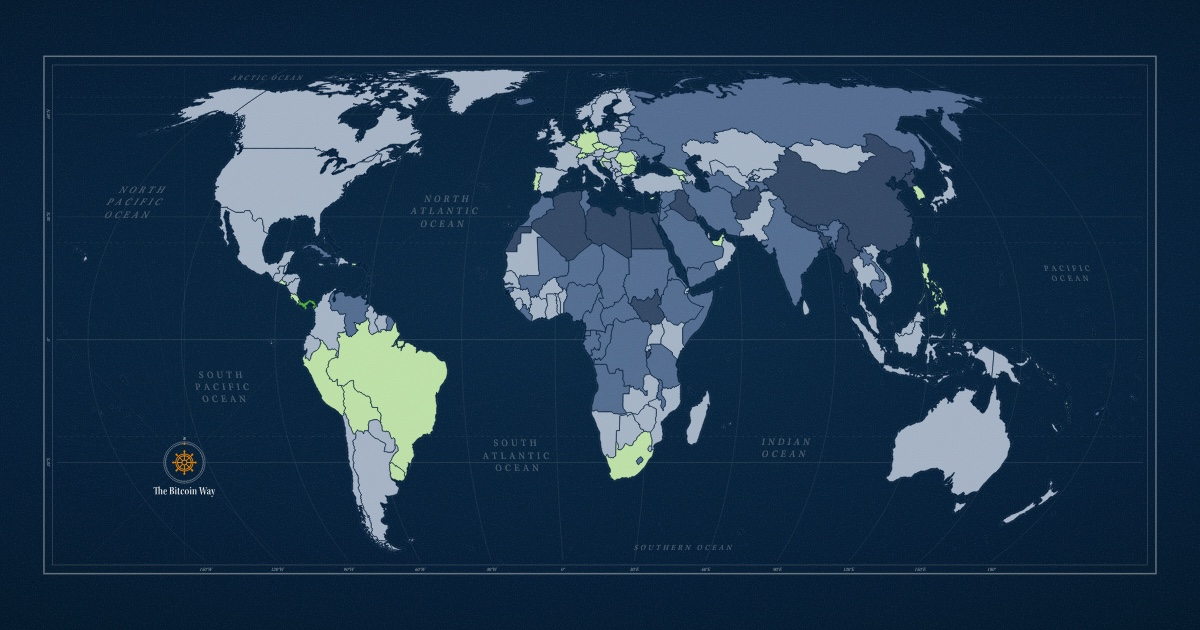
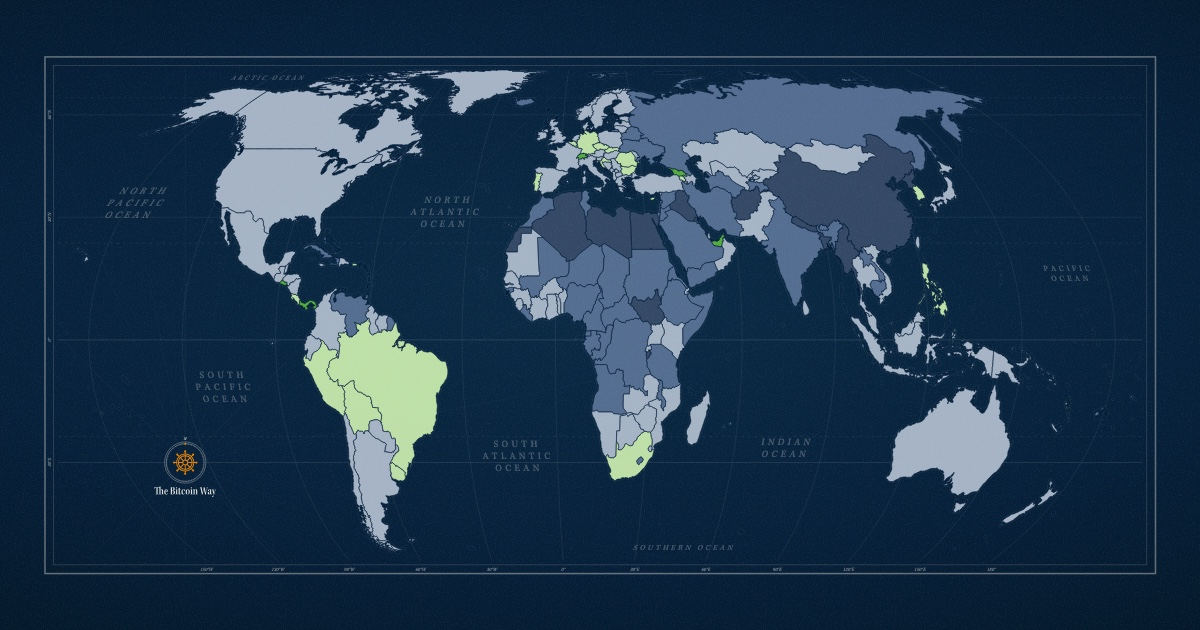
Very Friendly starts at 4.5 instead of 5 (adds El Salvador, Georgia, UAE, Switzerland); explanation, README and share image updated

diff --git a/data/countriesCsv.ts b/data/countriesCsv.ts
@@ -31,7 +31,7 @@ export const AREAS: Array<{ key: string; label: string }> = [
 export interface CountryData {
   code: string;
   name: string;
-  /** Colour band: the whole-number part of the overall score (below 1 counts as band 1) */
+  /** Colour band: the whole-number part of the overall score (below 1 counts as band 1), and 5 from 4.5 up */
   score: BitcoinScore;
   /** Overall score from the CSV (e.g. 3.42); null when the CSV value is missing or not numeric */
   scoreExact: number | null;
@@ -91,6 +91,9 @@ function optionalText(raw: string | null | undefined): string | null {
   const trimmed = (raw ?? "").trim();
   return trimmed === "" || trimmed === "—" ? null : trimmed;
 }
+
+/** Lowest overall score in band 5, Very Friendly (the other bands start at whole numbers) */
+export const VERY_FRIENDLY_FROM = 4.5;
 
 function clampBand(n: number): BitcoinScore {
   if (n <= 1) return 1;
@@ -176,8 +179,9 @@ async function initializeCountries(): Promise<void> {
         const scoreExact = parseDecimal(cols[iScore]);
         const capital = optionalText(cols[iCapital]);
 
-        // Colour band is the whole-number part of the score: 1.8 is band 1, and only a clean 5 is band 5
-        const band = clampBand(scoreExact !== null ? Math.floor(scoreExact) : 3);
+        // Colour band is the whole-number part of the score (1.8 is band 1), except that Very
+        // Friendly starts at 4.5
+        const band = clampBand(scoreExact !== null ? (scoreExact >= VERY_FRIENDLY_FROM ? 5 : Math.floor(scoreExact)) : 3);
 
         out[code] = {
           code,

diff --git a/app/map/InfoPanel.tsx b/app/map/InfoPanel.tsx
@@ -191,7 +191,7 @@ export const InfoPanel: React.FC<InfoPanelProps> = ({ onClose, closing }) => {
           The averages are then scaled so that the best country{best ? ` (${best.name})` : ""} scores 5.0, and every other
           country is shown relative to it.
         </p>
-        <p className="mb-2 text-zinc-700 dark:text-zinc-300">The colour on the map is the whole-number part of the overall score:</p>
+        <p className="mb-2 text-zinc-700 dark:text-zinc-300">The colour on the map is the whole-number part of the overall score, except that Very Friendly starts at 4.5:</p>
         <ul className="mb-3 space-y-2">
           {legendEntries.map((entry) => (
             <li key={entry.score} className="flex items-start gap-3">

diff --git a/scripts/make-og-image.py b/scripts/make-og-image.py
@@ -31,11 +31,11 @@ scores = re.findall(r'"(#[0-9A-Fa-f]{6})"', palette[palette.index("SCORE_COLORS"
 no_data = re.search(r'NO_DATA_COLOR = "(#[0-9A-Fa-f]{6})"', palette).group(1)
 map_bg = re.search(r'MAP_BACKGROUND = "(#[0-9A-Fa-f]{6})"', palette).group(1)
 
-# ---- each country's band: whole-number part of the overall score, as on the map
+# ---- each country's band: whole-number part of the overall score, and 5 from 4.5 up, as on the map
 band = {}
 for row in csv.DictReader(open(os.path.join(root, "public", "bitcoin-living-index.csv"), encoding="utf-8"), delimiter=";"):
     s = row["overall_score"].strip()
-    band[row["alpha_2"].strip().upper()] = min(5, max(1, math.floor(float(s)))) if s else None
+    band[row["alpha_2"].strip().upper()] = (5 if float(s) >= 4.5 else min(5, max(1, math.floor(float(s))))) if s else None
 
 svg = read("public", "world_equal_earth_nautical.svg")
 svg = svg[svg.index("<svg"):]

diff --git a/README.md b/README.md
@@ -34,8 +34,8 @@ smaller screens they open as a bottom sheet that can be dragged down to close.
 | 4 | Friendly | Clear rules and an overall supportive stance toward Bitcoin. |
 | 5 | Very Friendly | Highly supportive environment with strong industry presence. |
 
-A country's colour follows the whole-number part of its score: 1.8 is shown as band 1 and
-4.9 as band 4, so only a clean 5 gets the "Very Friendly" colour. The exact score is shown
+A country's colour follows the whole-number part of its score (1.8 is shown as band 1 and
+4.3 as band 4), except that "Very Friendly" starts at 4.5, so 4.6 is band 5. The exact score is shown
 in the country details, and countries are ranked by it.
 
 ## Getting started
